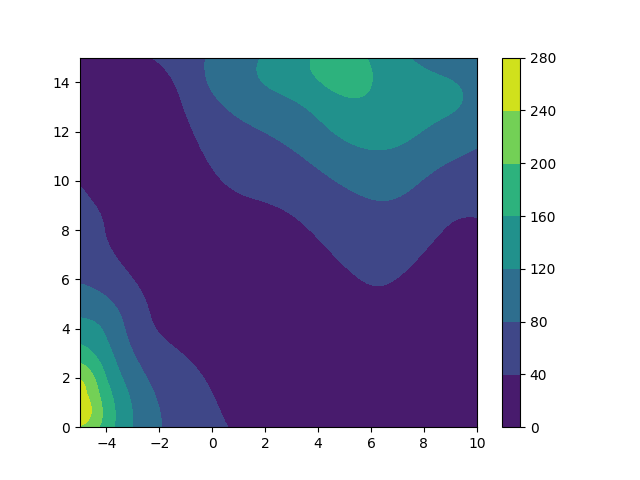
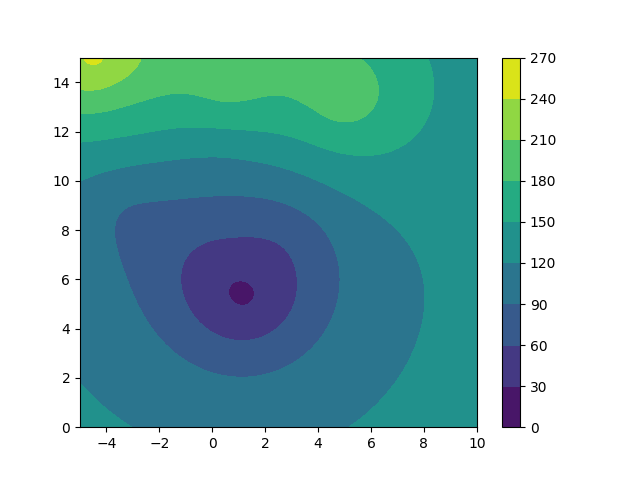
fix bug in kg

diff --git a/python/bo_alex.py b/python/bo_alex.py
@@ -9,9 +9,9 @@ import ipdb
 
 import warnings
 
-with warnings.catch_warnings():
-    warnings.filterwarnings("ignore",category=DeprecationWarning)
-    import sklearn.gaussian_process as gp
+#with warnings.catch_warnings():
+#    warnings.filterwarnings("ignore",category=DeprecationWarning)
+import sklearn.gaussian_process as gp
 
 # define the function that we want to minimize
 def barnin_function(x):
@@ -78,7 +78,7 @@ plt.figure()
 cp = plt.contourf(C, G, np.array(real_loss).reshape(C.shape))
 plt.colorbar(cp)
 plt.savefig('surface_grid.png')
-plt.show()
+#plt.show()
 plt.clf()
 # plot the GP surface
 model_gp.fit(x.transpose(), y)
@@ -91,7 +91,7 @@ plt.figure()
 cp = plt.contourf(C, G, np.array(real_loss).reshape(C.shape))
 plt.colorbar(cp)
 plt.savefig('surface_gp.png')
-plt.show()
+#plt.show()
 plt.clf()
 
 
@@ -127,18 +127,19 @@ def expected_improvement(x, gaussian_process, evaluated_loss):
 
     return  expected_improvement
 
-def maximize_gp(gaussian_process, bounds, n_restarts=20):
+def maximize_gp(gaussian_process, bounds, n_restarts=1):
     """
     we maximize the gp in order to use calculate the knowledge gradient
     """
     n_params = bounds.shape[0]
     best_x = None
     best_mu = 1000000
+    #ipdb.set_trace()
+    target_inter = lambda x: gaussian_process.predict(np.atleast_2d(x))
+
     for starting_point in np.random.uniform(bounds[:, 0], bounds[:, 1], size=(n_restarts, n_params)):
-        res = minimize(fun=gaussian_process.predict,
-                       x0=starting_point.reshape(1, -1),
-                       bounds=bounds,
-                       method='L-BFGS-B')
+        res = minimize(fun=target_inter, x0=starting_point, bounds=bounds, method='L-BFGS-B')
+
 
         if res.fun < best_mu:
             best_mu = res.fun
@@ -149,29 +150,24 @@ def calculate_kg(x_current, gaussian_process, x, y, bounds):
     """
     calculate the knowledge gradient
     """
+    #ipdb.set_trace()
     best_x, best_mu = maximize_gp(gaussian_process, bounds)
     mu_np1_list = []
     for i in range(20):
-        y_sampled = gaussian_process.sample_y(best_x, n_samples=1, random_state=i)
+        y_sampled = gaussian_process.sample_y(best_x.reshape(1,-1), n_samples=1, random_state=i)
         
         y_intermediate = np.hstack((y, y_sampled.flatten()))
         x_intermediate = np.hstack((x, best_x[:,np.newaxis]))
 
         gp_intermediate = copy.copy(gaussian_process)
         gp_intermediate.fit(x_intermediate.transpose(), y_intermediate)
-
         __, best_mu_np1 = maximize_gp(gp_intermediate, bounds)
         mu_np1_list.append(best_mu_np1)
-        (np.array(mu_np1_list)-best_mu).mean()
+
     kg = (np.array(mu_np1_list)-best_mu).mean()
     
-    ipdb.set_trace()
-    return(kg)
-
-
-
     
-
+    return(kg)
 
 
 
@@ -197,7 +193,7 @@ def sample_next_hyperparameter(acquisition_func, gaussian_process, evaluated_los
 
     """
     best_x = None
-    best_acquisition_value = 1
+    best_acquisition_value = 100000
     n_params = bounds.shape[0]
     #bounds = bounds.transpose()
 
@@ -219,11 +215,13 @@ def sample_next_hyperparameter(acquisition_func, gaussian_process, evaluated_los
 
 #x_new = np.random.random((2,1))*15+np.array([[-5],[0]])
 #expected_improvement(x_new, model_gp, y)
+kg_list = []
 for i_rep in range(100):
     next_point = sample_next_hyperparameter(expected_improvement, model_gp, y, bounds=bounds, n_restarts=25)
-    ipdb.set_trace()
+    #ipdb.set_trace()
     next_loss = target_function(next_point[:,np.newaxis])
-    calculate_kg(next_point, model_gp, x, y, bounds)
+    #ipdb.set_trace()
+    kg_list.append(calculate_kg(next_point, model_gp, x, y, bounds))
     y = np.hstack((y, next_loss))
     x = np.hstack((x, next_point[:,np.newaxis]))
     model_gp.fit(x.transpose(), y)
@@ -240,5 +238,5 @@ cp = plt.contourf(C, G, np.array(real_loss).reshape(C.shape))
 plt.scatter(x[0,:], x[1,:])
 plt.colorbar(cp)
 plt.savefig('surface_gp_end.png')
-plt.show()
+plt.clf()
 ipdb.set_trace()
